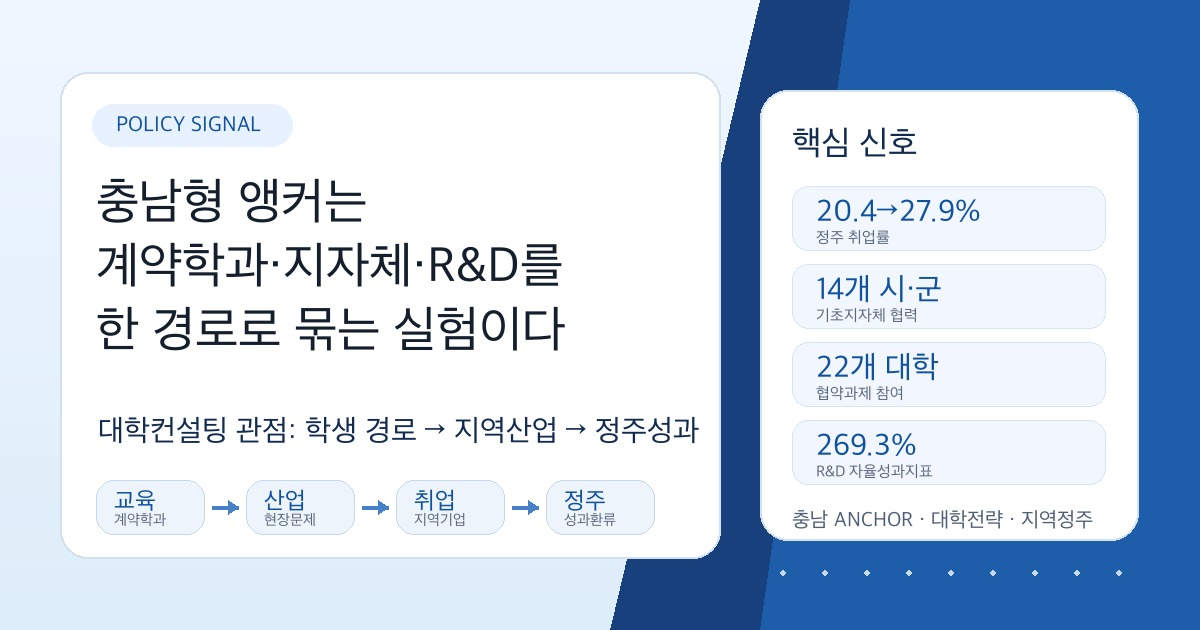
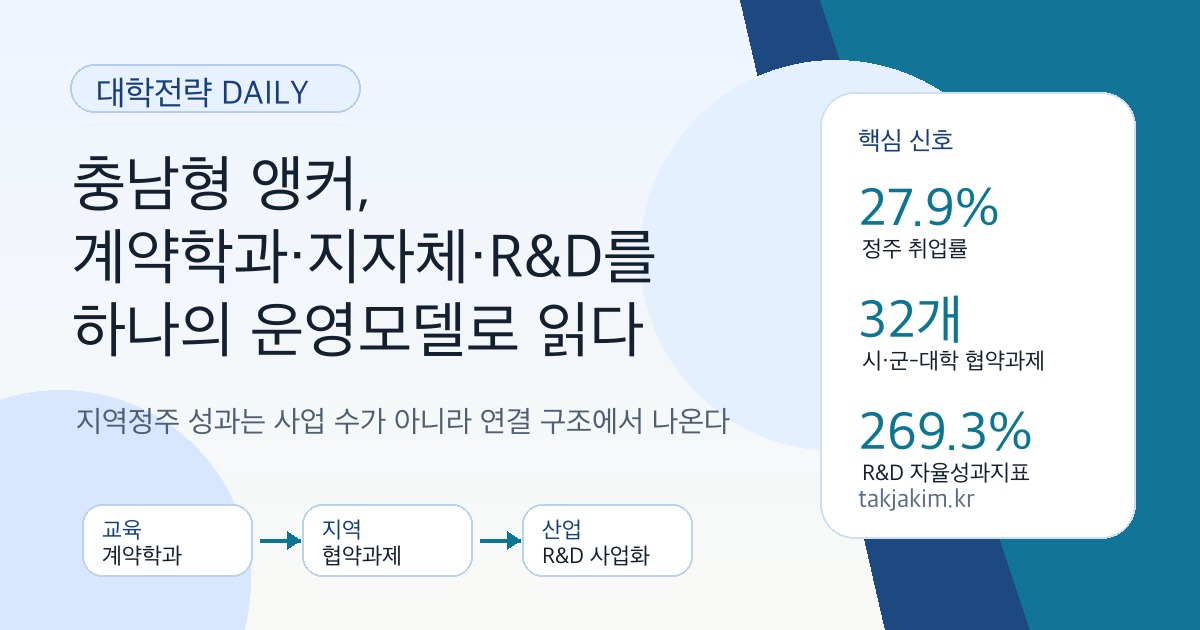
Publish Chungnam ANCHOR strategy note

Changed region(s): [[0.0308, 0.0, 0.9558, 1.0], [0.0308, 0.0905, 0.555, 0.2111], [0.6167, 0.0, 0.6475, 0.0603]]

diff --git a/_notes/education/2026-07-26-chungnam-anchor-operating-model.md b/_notes/education/2026-07-26-chungnam-anchor-operating-model.md
@@ -1,0 +1,64 @@
+---
+title: "충남형 앵커의 신호: 계약학과·지자체·R&D를 따로 보지 말아야 한다"
+date: 2026-07-26 08:10:00 +0900
+last_modified_at: 2026-07-26 08:10:00 +0900
+categories: [education]
+type: note
+label: POLICY
+tags: [대학컨설팅, 고등교육컨설팅, 경영컨설팅, 대학전략, 대학경영, 대학혁신, RISE, ANCHOR, 앵커, 계약학과, 산학협력, 지역정주, 교육과정, 성과관리]
+description: "한국대학신문의 충남형 앵커 보도를 바탕으로 계약학과, 기초지자체 협약과제, 대학 R&D 사업화를 하나의 고등교육 운영모델로 읽는다. 대학컨설팅 관점의 핵심은 성과 숫자보다 교육-취업-정주-산업화의 연결 구조다."
+excerpt: "충남형 앵커의 의미는 계약학과, 시·군 협약, R&D 사업화가 각각 잘됐다는 데서 끝나지 않는다. 대학전략 관점에서는 세 축이 학생 경로, 지역 문제, 산업 성장으로 이어지는 운영모델인지가 핵심이다."
+image: /assets/images/education/chungnam-anchor-operating-model-2026-og.jpg
+permalink: /education/chungnam-anchor-operating-model/
+---
+
+<figure class="note-cover-figure note-cover">
+  <img src="/assets/images/education/chungnam-anchor-operating-model-2026-og.jpg" alt="충남형 앵커 운영모델 대학전략 SEO 이미지">
+  <figcaption>자체 제작 전략 이미지. 한국대학신문의 충남형 앵커 보도에서 확인한 계약학과, 기초지자체 협약, R&amp;D 사업화 신호를 대학컨설팅 관점의 운영모델로 재구성했다.</figcaption>
+</figure>
+
+## 오늘의 핵심
+
+한국대학신문은 7월 24일 충남 앵커센터 사례를 다루며 충남형 앵커의 1차년도 주요 성과를 소개했다.[^unn] 기사에서 확인되는 숫자는 꽤 선명하다. 충남형 계약학과는 2차년도 목표였던 약정기업 500개와 취업 예정자 750명 중 1차년도에 각각 292개, 563명을 확보했다. 정주 취업률은 20.4%에서 27.9%로 올랐고, 14개 시·군과 22개 대학은 32개 협약과제를 운영 중이다. R&D·창업 쪽에서는 자율성과지표 평균 달성률 269.3%, 창업기업 100개사, 신규 고용 343명이라는 수치도 제시됐다.
+
+하지만 이 글에서 보려는 것은 “충남이 잘했다”는 홍보 문장이 아니다. 대학컨설팅 관점에서 중요한 신호는 **[[앵커|ANCHOR(RISE)]]가 계약학과, 기초지자체 협약, 대학 R&D 사업화를 별도 사업이 아니라 하나의 지역 고등교육 운영모델로 묶기 시작했다는 점**이다. 숫자는 결과표다. 더 중요한 것은 그 숫자를 만든 연결 구조다.
+
+## 왜 대학전략 관점에서 중요한가
+
+[[RISE]] 이후 지역대학 정책의 질문은 “어느 대학에 얼마를 지원할 것인가”에서 “지역이 어떤 문제를 대학과 함께 풀 것인가”로 옮겨가고 있다. 여기서 대학은 단순한 교육기관도, 보조금 집행기관도 아니다. 지역 산업의 인력 미스매치, 청년 유출, 기초지자체 현안, 대학 연구성과의 사업화 사이를 연결하는 실행 주체가 된다.
+
+충남형 앵커 사례가 흥미로운 이유는 세 축이 서로 다른 문제를 겨냥한다는 데 있다. 첫째, [[계약학과]]는 학생의 입학-교육-취업 경로를 지역기업 수요와 직접 묶는다. 둘째, [[기초지자체-대학 협약]]은 시·군이 제시한 정책현안을 대학의 전문성과 연결한다. 셋째, [[대학 R&D 사업화]]는 대학 연구성과를 기술이전, 창업, 투자, 판로개척으로 확장한다. 각각만 보면 익숙한 사업이다. 함께 보면 대학경영의 운영체계가 된다.
+
+대학전략에서 가장 위험한 착시는 사업명을 성과로 착각하는 것이다. 계약학과를 만들었다고 학생이 지역에 남는 것은 아니고, 협약서를 체결했다고 주민 문제가 풀리는 것도 아니며, R&D 과제를 수행했다고 기업 성장으로 이어지는 것도 아니다. 성과는 사업 사이의 경계에서 만들어진다. 학생이 어떤 교육과정을 거쳐 어떤 기업에 연결되는지, 기업 수요가 다시 교과목과 실습으로 들어오는지, 시·군 과제가 대학 연구·수업·창업지원과 만나는지가 핵심이다.
+
+## 정책·교육과정·지역연계 포인트
+
+첫째, 계약학과는 “취업 보장 학과”보다 넓게 봐야 한다. 보도에 따르면 충남형 계약학과는 참여기업을 충남 소재 기업으로 한정하고, 산업체 수요를 교육과정에 반영하며, 입학 단계에서부터 취업을 확정하는 구조로 설계됐다. 이 구조가 의미 있으려면 기업 리스트와 채용 약속만 앞세울 것이 아니라 학생이 쌓는 역량, 현장실습 품질, 졸업 후 경력 이동성까지 설명해야 한다. 좋은 계약학과는 학생을 특정 기업에 잠시 배치하는 장치가 아니라 [[학생 포트폴리오]]를 지역 안에서 성장시키는 경로다.
+
+둘째, 시·군 협약과제는 대학의 지역문제 해결 역량을 시험한다. 기사에 따르면 충남은 14개 시·군, 22개 대학, 32개 협약과제를 운영하며 스마트농업, 평생교육·복지, 정주환경 개선, 도시서비스, 창업·일자리 연계 등을 다루고 있다. 특히 기초지자체가 지방비를 매칭하고, 시·군이 정책현안을 제시하며, 대학이 연구역량과 교육자원을 결합하는 방식은 기존 산학협력보다 훨씬 생활권에 가깝다. 이때 핵심은 “대학이 지역에 봉사했다”가 아니라 지역 현안이 교육과정, 비교과, 캡스톤, 연구실, 창업지원으로 어떻게 번역되는가다.
+
+셋째, R&D 사업화는 대학의 연구성과를 지역 안에 붙잡는 장치가 될 수 있다. 보도는 반도체첨단패키징, 디스플레이부품장비, 수소에너지 등 충남 신성장동력 분야에서 기술이전, 제품화, 기술창업, 투자유치, 해외 판로개척을 연결한 사례를 제시한다. 이 대목은 [[산학협력]]의 수준을 가른다. 논문과 특허가 대학 안에 머무르면 실적은 남지만 지역산업의 체감도는 낮다. 반대로 연구성과가 기업의 제품화, 학생 프로젝트, 창업보육, 해외시장 검증으로 이어지면 [[지역산업 연계]]는 행사용 문구가 아니라 대학의 경쟁력이 된다.
+
+넷째, 정주 성과는 마지막 지표가 아니라 설계의 출발점이어야 한다. 정주 취업률 27.9%라는 숫자는 긍정적 신호지만, 대학전략 관점에서는 그 다음 질문이 중요하다. 어떤 전공군에서 정주가 늘었는가. 지역기업에서 첫 직장을 시작한 학생이 3년 뒤에도 경력 성장을 이어가는가. 학생이 지역에 남기 위해 필요한 주거, 문화, 커뮤니티, 직무교육은 누가 책임지는가. [[지역정주]]는 대학 혼자 달성할 수 없는 지표이기 때문에 지자체와 기업의 실행 약속이 함께 있어야 한다.
+
+## 학생·학부모가 확인할 것
+
+학생과 학부모에게도 이 흐름은 꽤 실용적이다. 어떤 대학의 계약학과나 지역연계 프로그램을 볼 때 “취업률이 높다”는 문장만 보면 부족하다. 먼저 참여기업이 실제 지역 산업에서 어떤 위치에 있는지, 전공 교육과 현장실습이 어떻게 연결되는지, 장학금이나 의무근무 조건은 무엇인지 확인해야 한다. 채용조건형 프로그램일수록 학생 보호 장치와 중도 변경 가능성이 중요하다.
+
+또 하나는 지역 안에서의 성장 경로다. 첫 취업이 지역기업이어도 이후 직무교육, 대학원, 자격, 창업, 다른 기업으로의 이동이 막혀 있으면 학생에게는 좁은 길이 될 수 있다. 좋은 지역연계 대학은 “우리 지역에 남아라”라고만 말하지 않는다. 지역 안에서도 경력이 커질 수 있다는 증거를 보여준다. 프로젝트 수업, 기업 멘토링, 현장실습 평가, 졸업생 경력, 지역혁신기관 연계가 함께 보일 때 학생에게도 신뢰할 만한 선택지가 된다.
+
+## 대학컨설팅 관점에서 보는 전략
+
+필자의 대학컨설팅 관점에서 충남형 앵커 사례는 세 가지 질문을 남긴다.
+
+첫째, **대학은 사업 포트폴리오를 하나의 학생 경로로 엮고 있는가.** 계약학과, 캡스톤디자인, 창업동아리, R&D 과제, 지역문제 해결 프로젝트가 각각 따로 움직이면 학생 입장에서는 흩어진 프로그램일 뿐이다. 대학은 학생이 입학 후 어떤 경험을 거쳐 지역기업, 창업, 대학원, 공공·지역기관으로 이동할 수 있는지 경로도를 가져야 한다.
+
+둘째, **지자체와 대학의 협약은 실행지표를 공유하는가.** 협약 수, 회의 수, 참여자 수는 관리하기 쉽지만 전략지표로는 약하다. 주민 만족도, 기업 재참여율, 학생 유지율, 지역 내 취업 지속기간, 과제 종료 후 제도화 여부 같은 [[실행지표]]가 필요하다. 그래야 협약이 보도자료에서 끝나지 않고 다음 예산과 조직개편, 교육과정 개선으로 이어진다.
+
+셋째, **성과가 다음 설계로 돌아오는가.** 충남형 앵커가 장기 모델이 되려면 1차년도 성과를 단순히 축하하는 데서 멈추면 안 된다. 어떤 계약학과가 학생과 기업 양쪽에서 효과가 컸는지, 어떤 시·군 과제가 확산 가능한지, 어떤 R&D 사업화가 지역 고용과 학생 학습으로 연결됐는지 분석해야 한다. 이 과정이 [[성과환류]]다. 성과환류가 약하면 좋은 수치도 일회성 실적이 되고, 성과환류가 강하면 지역대학의 운영지식이 된다.
+
+결국 충남형 앵커의 의미는 “계약학과가 많다”거나 “협약과제가 많다”는 데 있지 않다. 교육-취업-정주, 지역현안-대학역량, 연구성과-산업성장을 한 화면에 놓고 관리하려는 시도에 있다. 앞으로 다른 지역의 RISE와 앵커 사업도 같은 기준으로 봐야 한다. 사업이 늘었는가보다, 학생과 지역과 산업을 잇는 운영모델이 실제로 작동하는가를 물어야 한다.
+
+## 확인한 출처
+
+[^unn]: 한국대학신문, 「[앵커 선도대학을 가다/충남앵커센터] 충남형 앵커, 계약학과‧지자체 협력‧R&D 생태계 ‘삼각 편대’… 지역정주 실증」, 2026.07.24. <https://news.unn.net/news/articleView.html?idxno=595086>
